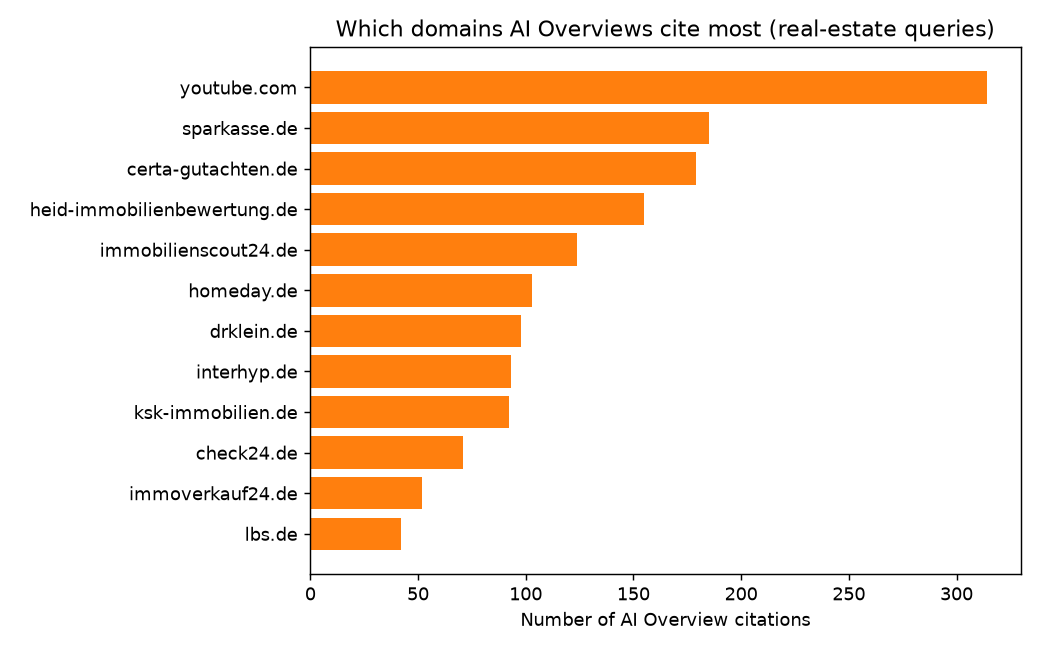
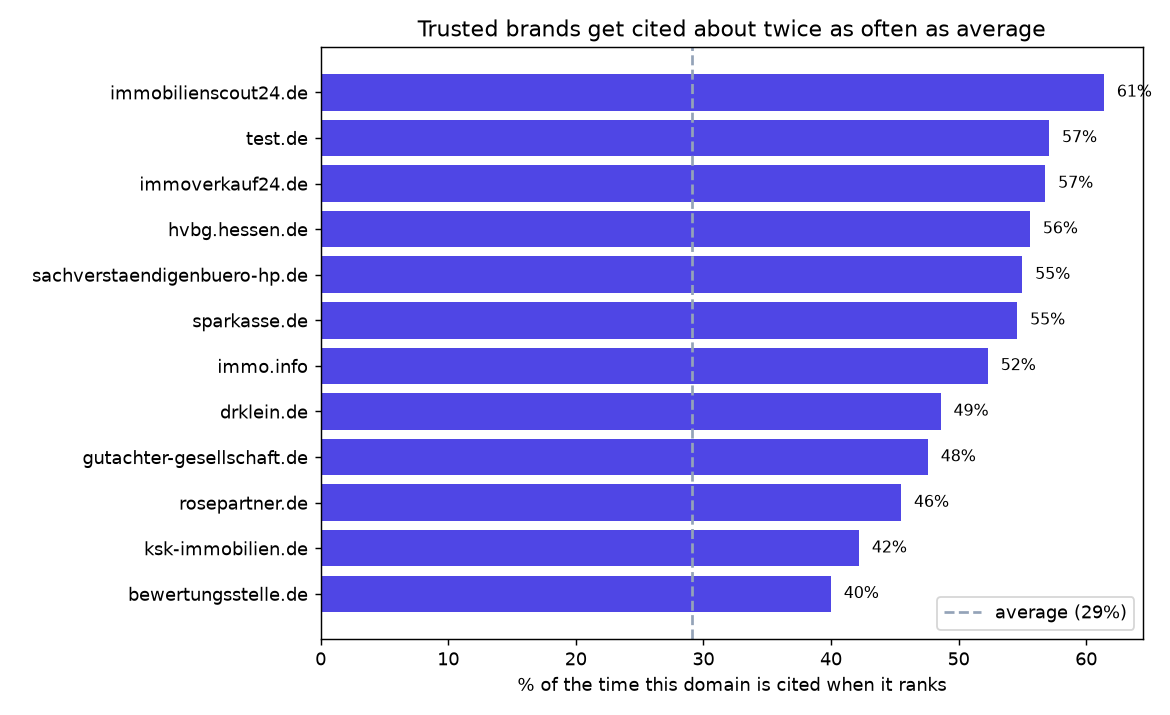
Correct domain analysis: restrict to ranked pages (YouTube rate was a selection artifact)

diff --git a/scripts/analyze_domains.py b/scripts/analyze_domains.py
@@ -1,0 +1,109 @@
+#!/usr/bin/env python3
+"""Corrected domain analysis - which sites get cited when they actually rank?
+
+Why this replaces the earlier version
+-------------------------------------
+The first domain leaderboard computed citation rate over ALL rows, including the
+rank-101 sentinel rows (cited pages that never appeared in Google's visible
+results). Those rows are in the dataset *only because* they were cited, so any
+domain that mostly appears through them shows a near-100% "citation rate" that
+measures nothing.
+
+YouTube was the clearest case: 330 rows, 95% cited - but 305 of those (92%) were
+rank-101. Among YouTube pages that genuinely rank, only 36% get cited. In fact,
+across all video pages that rank, the citation rate is 15.8% versus 29.3% for
+non-video pages: the opposite of the original conclusion.
+
+This script restricts to genuinely ranked pages, where the question is well
+posed: when this domain appears in Google's results, how often does the AI
+Overview cite it?
+
+    python scripts/analyze_domains.py --data data/raw/real.csv
+"""
+
+from __future__ import annotations
+
+import argparse
+from pathlib import Path
+
+import matplotlib
+
+matplotlib.use("Agg")
+import matplotlib.pyplot as plt
+import pandas as pd
+
+RESULTS = Path("reports/results")
+FIGURES = Path("reports/figures")
+MIN_APPEARANCES = 20
+
+
+def main() -> None:
+    p = argparse.ArgumentParser(description=__doc__,
+                                formatter_class=argparse.RawDescriptionHelpFormatter)
+    p.add_argument("--data", default="data/raw/real.csv")
+    p.add_argument("--min-appearances", type=int, default=MIN_APPEARANCES)
+    args = p.parse_args()
+
+    raw = pd.read_csv(args.data)
+    raw["domain"] = (
+        raw["url"].str.extract(r"https?://([^/]+)/", expand=False)
+        .str.replace("www.", "", regex=False)
+    )
+    ranked = raw[raw["organic_rank"] != 101].copy()
+    overall = ranked["cited"].mean()
+
+    print(f"Ranked pages only: {len(ranked):,} rows (of {len(raw):,})")
+    print(f"Overall citation rate among ranked pages: {overall:.1%}\n")
+
+    g = (
+        ranked.groupby("domain")
+        .agg(times_ranked=("cited", "size"), times_cited=("cited", "sum"))
+        .reset_index()
+    )
+    g["citation_rate"] = (g["times_cited"] / g["times_ranked"]).round(3)
+    g["vs_average"] = (g["citation_rate"] / overall).round(2)
+    g = g[g["times_ranked"] >= args.min_appearances].sort_values("citation_rate", ascending=False)
+
+    print(f"Domains appearing at least {args.min_appearances} times, by citation rate:\n")
+    print(f"  {'domain':34s} {'ranked':>7s} {'cited':>7s} {'rate':>7s} {'vs avg':>8s}")
+    for _, r in g.head(15).iterrows():
+        print(f"  {r['domain']:34s} {int(r['times_ranked']):7d} {int(r['times_cited']):7d} "
+              f"{r['citation_rate']:6.0%} {r['vs_average']:7.2f}x")
+
+    # The video correction, stated explicitly - it's a finding in itself.
+    print("\nVideo pages (the corrected picture):")
+    for label, sub in [("video, ranked", ranked[ranked["is_video"] == 1]),
+                       ("non-video, ranked", ranked[ranked["is_video"] == 0])]:
+        if len(sub):
+            print(f"  {label:20s} n={len(sub):5d}  cited {sub['cited'].mean():.1%}")
+    all_video = raw[raw["is_video"] == 1]
+    if len(all_video):
+        share_101 = (all_video["organic_rank"] == 101).mean()
+        print(f"  -> {share_101:.0%} of all video rows are cited-but-not-ranked, which is why the")
+        print("     uncorrected number looked so high. Video content enters AI Overviews")
+        print("     mostly from outside the visible results, not by ranking well.")
+
+    RESULTS.mkdir(parents=True, exist_ok=True)
+    g.to_csv(RESULTS / "domain_citation_ranked_only.csv", index=False)
+
+    FIGURES.mkdir(parents=True, exist_ok=True)
+    top = g.head(12).iloc[::-1]
+    fig, ax = plt.subplots(figsize=(9, 5.5))
+    ax.barh(top["domain"], top["citation_rate"] * 100, color="#4F46E5")
+    ax.axvline(overall * 100, color="#94A3B8", linestyle="--", linewidth=1.5,
+               label=f"average ({overall:.0%})")
+    ax.set_xlabel("% of the time this domain is cited when it ranks")
+    ax.set_title("Trusted brands get cited about twice as often as average")
+    ax.legend()
+    for i, v in enumerate(top["citation_rate"] * 100):
+        ax.text(v + 1, i, f"{v:.0f}%", va="center", fontsize=9)
+    fig.tight_layout()
+    fig.savefig(FIGURES / "insight_3_top_domains.png", dpi=130)
+    plt.close(fig)
+
+    print(f"\nTable -> {RESULTS}/domain_citation_ranked_only.csv")
+    print(f"Chart -> {FIGURES}/insight_3_top_domains.png  (replaces the earlier version)")
+
+
+if __name__ == "__main__":
+    main()